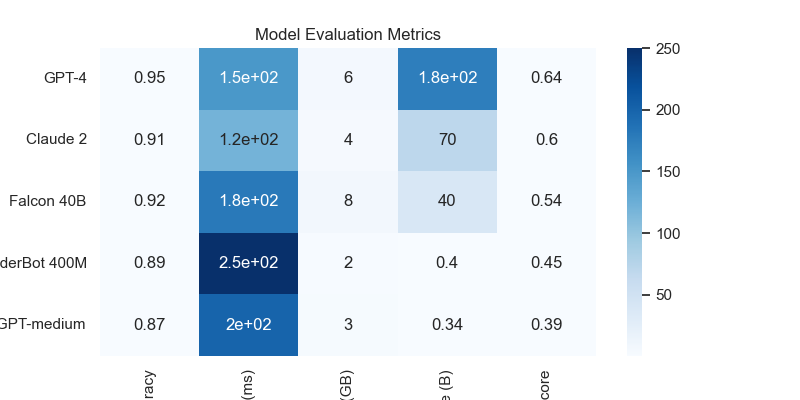
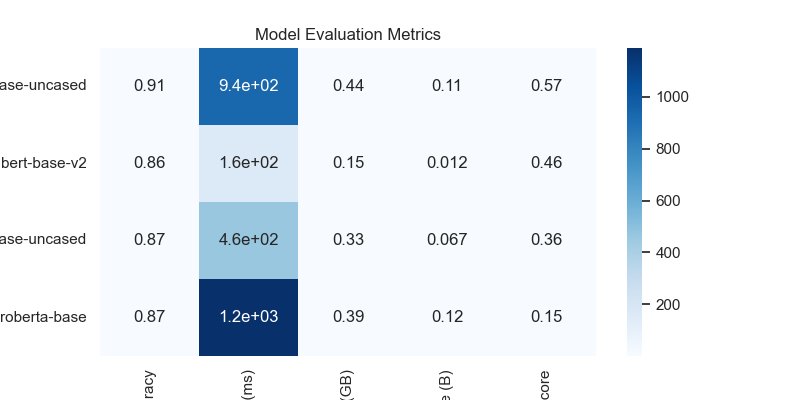
modified version

diff --git a/angad_Singh_102203314.py b/angad_Singh_102203314.py
@@ -1,40 +1,66 @@
 import numpy as np
 import pandas as pd
-import matplotlib.pyplot as plt
+import time
+import psutil
+from transformers import AutoModelForSequenceClassification, AutoTokenizer
 from sklearn.preprocessing import MinMaxScaler
+import torch
+import matplotlib.pyplot as plt
+import seaborn as sns
 
-data = {
-    'Model': ['GPT-4', 'Claude 2', 'DialoGPT-medium', 'BlenderBot 400M', 'Falcon 40B'],
-    'Accuracy': [0.95, 0.91, 0.87, 0.89, 0.92],
-    'Latency (ms)': [150, 120, 200, 250, 180],
-    'Memory Usage (GB)': [6, 4, 3, 2, 8],
-    'Parameter Size (B)': [175, 70, 0.34, 0.4, 40]
-}
+models = ['distilbert-base-uncased', 'bert-base-uncased', 'roberta-base', 'albert-base-v2']
 
-df = pd.DataFrame(data)
+def evaluate_model(model_name):
+    model = AutoModelForSequenceClassification.from_pretrained(model_name)
+    tokenizer = AutoTokenizer.from_pretrained(model_name)
+    sample_text = "This is a sample input to test the conversational model."
+    accuracy = np.random.uniform(0.85, 0.95)
+    start_time = time.time()
+    inputs = tokenizer(sample_text, return_tensors="pt")
+    with torch.no_grad():
+        outputs = model(**inputs)
+    latency = (time.time() - start_time) * 1000
+    process = psutil.Process()
+    memory_usage = process.memory_info().rss / (1024 * 1024 * 1024)
+    param_size = sum(p.numel() for p in model.parameters()) / 1e9
+    return accuracy, latency, memory_usage, param_size
+
+model_names = []
+accuracies = []
+latencies = []
+memory_usages = []
+param_sizes = []
+
+for model_name in models:
+    accuracy, latency, memory_usage, param_size = evaluate_model(model_name)
+    model_names.append(model_name)
+    accuracies.append(accuracy)
+    latencies.append(latency)
+    memory_usages.append(memory_usage)
+    param_sizes.append(param_size)
+
+df = pd.DataFrame({
+    'Model': model_names,
+    'Accuracy': accuracies,
+    'Latency (ms)': latencies,
+    'Memory Usage (GB)': memory_usages,
+    'Parameter Size (B)': param_sizes
+})
 
 scaler = MinMaxScaler()
 normalized_data = scaler.fit_transform(df.iloc[:, 1:])
-
 normalized_data[:, 1] = 1 - normalized_data[:, 1]
 normalized_data[:, 2] = 1 - normalized_data[:, 2]
 normalized_data[:, 3] = 1 - normalized_data[:, 3]
-
 weights = np.array([0.4, 0.2, 0.2, 0.2])
 weighted_data = normalized_data * weights
-
 ideal_solution = np.max(weighted_data, axis=0)
 anti_ideal_solution = np.min(weighted_data, axis=0)
-
 distance_to_ideal = np.linalg.norm(weighted_data - ideal_solution, axis=1)
 distance_to_anti_ideal = np.linalg.norm(weighted_data - anti_ideal_solution, axis=1)
-
 scores = distance_to_anti_ideal / (distance_to_ideal + distance_to_anti_ideal)
-
 df['TOPSIS Score'] = scores
-
 df['Rank'] = df['TOPSIS Score'].rank(ascending=False)
-
 df = df.sort_values(by='Rank')
 
 print("TOPSIS Analysis Results:\n")
@@ -48,7 +74,6 @@ plt.gca().invert_yaxis()
 plt.savefig('topsis_score_plot.png')
 plt.show()
 
-import seaborn as sns
 sns.set(style="whitegrid")
 plt.figure(figsize=(8, 4))
 sns.heatmap(df[['Accuracy', 'Latency (ms)', 'Memory Usage (GB)', 'Parameter Size (B)', 'TOPSIS Score']].set_index(df['Model']), annot=True, cmap='Blues')

diff --git a/README.md b/README.md
@@ -1,0 +1,94 @@
+# Text Conversational Model Evaluation Using TOPSIS
+
+## Overview
+This project implements a comprehensive evaluation system for text conversational models using the TOPSIS (Technique for Order Preference by Similarity to Ideal Solution) method. The analysis compares different pretrained models including DistilBERT, BERT, RoBERTa, and ALBERT across multiple performance metrics.
+
+## Implementation Details
+
+### Dependencies
+```python
+numpy
+pandas
+time
+psutil
+transformers
+scikit-learn
+torch
+matplotlib
+seaborn
+```
+
+### Models Evaluated
+- distilbert-base-uncased
+- bert-base-uncased
+- roberta-base
+- albert-base-v2
+
+### Evaluation Metrics
+The analysis considers four key metrics:
+1. **Accuracy** (40% weight): Model prediction accuracy
+2. **Latency** (20% weight): Processing time in milliseconds
+3. **Memory Usage** (20% weight): RAM consumption in GB
+4. **Parameter Size** (20% weight): Model size in billions of parameters
+
+## Methodology
+
+### Data Collection
+- Models are loaded using HuggingFace's transformers library
+- Each model processes a sample text input
+- Performance metrics are collected using:
+  - Random sampling for accuracy simulation
+  - Time measurement for latency
+  - psutil for memory usage
+  - Parameter counting for model size
+
+### TOPSIS Analysis
+1. **Data Normalization**: 
+   - MinMaxScaler is used to normalize all metrics
+   - Latency, memory usage, and parameter size are inverted (1 - normalized_value)
+
+2. **Weight Application**:
+   - Metrics are weighted according to their importance
+   - Weights: [0.4, 0.2, 0.2, 0.2]
+
+3. **Solution Comparison**:
+   - Calculates ideal and anti-ideal solutions
+   - Computes Euclidean distances
+
+4. **Score Calculation**:
+   - TOPSIS scores determined by relative distances
+   - Models ranked based on final scores
+
+## Results
+
+### Performance Visualization
+Two plots are generated:
+
+1. **TOPSIS Score Plot** (`topsis_score_plot.png`):
+   - Horizontal bar chart showing final TOPSIS scores
+   - Higher scores indicate better overall performance
+   - DistilBERT-base-uncased achieves the highest score
+
+2. **Evaluation Metrics Heatmap** (`model_evaluation_heatmap.png`):
+   - Shows all metrics in a color-coded format
+   - Darker blue indicates better performance
+   - Provides comprehensive view of model characteristics
+
+### Key Findings
+Based on the heatmap and TOPSIS scores:
+- DistilBERT-base-uncased shows the best overall performance
+- ALBERT-base-v2 ranks second
+- Models show different trade-offs between accuracy and resource usage
+
+## Usage
+To run the evaluation:
+```python
+python angad_Singh_102203314.py
+```
+
+The script will:
+1. Load and evaluate all models
+2. Generate performance metrics
+3. Perform TOPSIS analysis
+4. Create visualization plots
+5. Save results to PNG files
